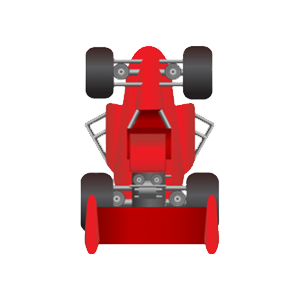
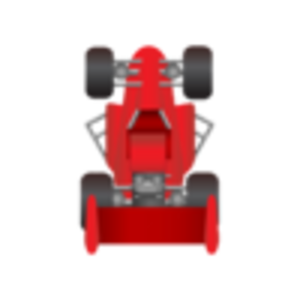
Paso 5

Changed region(s): [[0.24, 0.12, 0.75, 0.87], [0.42, 0.36, 0.57, 0.45]]

diff --git a/Practicas-ProgIII/src/Practica0/JLabelCoche.java b/Practicas-ProgIII/src/Practica0/JLabelCoche.java
@@ -1,0 +1,222 @@
+package Practica0;
+
+import java.awt.*;
+import java.awt.image.BufferedImage;
+import java.io.File;
+import java.io.IOException;
+import java.net.URL;
+import javax.imageio.ImageIO;
+import javax.swing.*;
+
+public class JLabelCoche extends JLabel{
+	public static void main(String[] args) {
+		JFrame f = new JFrame( "Prueba JLabelCoche" );
+		f.setDefaultCloseOperation( JFrame.DISPOSE_ON_CLOSE );
+		// f.setLocation( 2000, 100 );   // Si se quiere cambiar la posición
+		f.getContentPane().setLayout( null );
+		JLabel label = new JLabel( new ImageIcon( "src/Practica0/coche.png" ) );
+		label.setBounds( 0, 0, 150, 150 );
+		JLabelCoche labelGrafico = new JLabelCoche( "/Practica0/coche.png", 100, 100 );
+		labelGrafico.setLocation( 400, 100 );
+			// TODO probar este 300, 300 con diferentes tamaños. Si x<=0 ajusta el ancho y si es y<=0 ajusta el alto
+		f.setSize( 600, 400 );
+		f.add( label );  // f.add es una simplificación de f.getContentPane().add  (es lo mismo)
+		f.add( labelGrafico );
+		f.setVisible( true );
+		try { Thread.sleep( 5000 ); } catch (Exception e) {}  // Espera 5 segundos
+		for (int rot=0; rot<=200; rot++ ) {
+			labelGrafico.setRotacion( rot*Math.PI/100 );
+			try { Thread.sleep( 20 ); } catch (Exception e) {}  // Espera dos décimas entre rotación y rotación
+		}
+		for (int op=-100; op<=100; op++ ) {
+			labelGrafico.setOpacidad( Math.abs(op*0.01f) );
+			try { Thread.sleep( 20 ); } catch (Exception e) {}  // Espera dos décimas entre cambio de transparencias
+		}
+		for (int op=0; op<99; op++ ) {
+			labelGrafico.setSize( labelGrafico.getAnchuraObjeto()-1, labelGrafico.getAlturaObjeto()-1 );
+			try { Thread.sleep( 20 ); } catch (Exception e) {}  // Espera dos décimas entre cambio de tamaño
+		}
+		for (int op=0; op<200; op++ ) {
+			labelGrafico.setSize( labelGrafico.getAnchuraObjeto()+1, labelGrafico.getAlturaObjeto()+1 );
+			try { Thread.sleep( 20 ); } catch (Exception e) {}  // Espera dos décimas entre cambio de tamaño
+		}
+		for (int op=0; op<100; op++ ) {
+			labelGrafico.setSize( labelGrafico.getAnchuraObjeto()-1, labelGrafico.getAlturaObjeto() );
+			try { Thread.sleep( 20 ); } catch (Exception e) {}  // Espera dos décimas entre aplastamiento de tamaño
+		}
+		for (int rot=0; rot<=200; rot++ ) {
+			labelGrafico.setRotacion( rot*Math.PI/100 );
+			try { Thread.sleep( 20 ); } catch (Exception e) {}  // Espera dos décimas entre rotación y rotación
+		}
+	}
+
+	// No static
+	
+	// la posición X,Y se hereda de JLabel
+	protected int anchuraObjeto;   // Anchura definida del objeto en pixels
+	protected int alturaObjeto;    // Altura definida del objeto en pixels
+	protected double radsRotacion; // Rotación del objeto en radianes
+	protected float opacidad;      // Opacidad del objeto (0.0f a 0.1f)
+	protected double zoom = 1.0;   // 1.0 = 100% zoom  (0.1 = 10%, 10.0 = 1000% ...)
+	protected BufferedImage imagenObjeto;  // imagen para el escalado
+	private static final long serialVersionUID = 1L;  // para serializar
+
+	/** Crea un nuevo JLabel gráfico.<br>
+	 * Si no existe el fichero de imagen, se crea un rectángulo blanco con borde rojo
+	 * @param nombreImagenObjeto	Nombre fichero donde está la imagen del objeto. Puede ser también un nombre de recurso desde el paquete de esta clase.
+	 * @param anchura	Anchura del gráfico en píxels (si es <= 0 ocupa todo el ancho de la imagen original)
+	 * @param altura	Altura del gráfico en píxels (si es <= 0 ocupa todo el alto de la imagen original)
+	 */
+	public JLabelCoche( String nombreImagenObjeto, int anchura, int altura ) {
+		this( nombreImagenObjeto, anchura, altura, 0.0, 1.0f );
+	}
+	
+	/** Crea un nuevo JLabel gráfico.<br>
+	 * Si no existe el fichero de imagen, se crea un rectángulo blanco con borde rojo
+	 * @param nombreImagenObjeto	Nombre fichero donde está la imagen del objeto. Puede ser también un nombre de recurso desde el paquete de esta clase.
+	 * @param anchura	Anchura del gráfico en píxels (si es <= 0 ocupa todo el ancho de la imagen original)
+	 * @param altura	Altura del gráfico en píxels (si es <= 0 ocupa todo el alto de la imagen original)
+	 * @param rotacion	Rotación del objeto (en radianes)
+	 * @param opacidad	Opacidad del objeto (0.0f transparente a 1.0f opaco)
+	 */
+	public JLabelCoche( String nombreImagenObjeto, int anchura, int altura, double rotacion, float opacidad ) {
+		setName( nombreImagenObjeto );
+		setImagen( nombreImagenObjeto ); // Cargamos el icono
+		setSize( anchura, altura );
+		setRotacion(rotacion);
+		setOpacidad(opacidad);
+	}
+	
+	@Override
+	public void setSize(int anchura, int altura) {
+        if (anchura <= 0 && imagenObjeto!=null) anchura = imagenObjeto.getWidth();
+        if (altura <= 0 && imagenObjeto!=null) altura = imagenObjeto.getHeight();
+		anchuraObjeto = anchura;
+		alturaObjeto = altura;
+    	super.setSize( anchura, altura );
+    	setPreferredSize( new Dimension( anchura, altura ));
+	}
+	
+	/** Cambia la imagen del objeto
+	 * @param nomImagenObjeto	Nombre fichero donde está la imagen del objeto. Puede ser también un nombre de recurso desde el paquete de esta clase.
+	 */
+	public void setImagen( String nomImagenObjeto ) {
+		File f = new File(nomImagenObjeto);
+        URL imgURL = null;
+        try {
+        	imgURL = f.toURI().toURL();
+    		if (!f.exists()) {
+    			imgURL = JLabelCoche.class.getResource( nomImagenObjeto ).toURI().toURL();
+    		}
+        } catch (Exception e) {}  // Cualquier error de carga, la imagen se queda nula
+        if (imgURL == null) {
+        	imagenObjeto = null;
+        } else {
+        	try {  // guarda la imagen para dibujarla de forma escalada después
+    			imagenObjeto = ImageIO.read(imgURL);
+    		} catch (IOException e) {}  // Error al leer la imagen
+        }
+        if (imagenObjeto==null) {
+			setOpaque( true );
+			setBackground( Color.red );
+			setForeground( Color.blue );
+	    	setBorder( BorderFactory.createLineBorder( Color.blue ));
+	    	setText( nomImagenObjeto );
+        }
+        repaint();
+	}
+	
+	/** Devuelve la anchura del rectángulo gráfico del objeto
+	 * @return	Anchura
+	 */
+	public int getAnchuraObjeto() {
+		return anchuraObjeto;
+	}
+	
+	/** Devuelve la altura del rectángulo gráfico del objeto
+	 * @return	Altura
+	 */
+	public int getAlturaObjeto() {
+		return alturaObjeto;
+	}
+	
+	/** Devuelve la rotación del objeto
+	 * @return	Rotación actual del objeto en radianes
+	 */
+	public double getRotacion() {
+		return radsRotacion;
+	}
+
+	/** Modifica la rotación del objeto
+	 * @param rotacion	Nueva rotación del objeto (en radianes)
+	 */
+	public void setRotacion( double rotacion ) {
+		radsRotacion = rotacion;
+		repaint(); // Si no repintamos aquí Swing no sabe que ha cambiado el dibujo
+	}
+	
+	/** Devuelve la opacidad del objeto
+	 * @return	Opacidad del objeto (0.0f transparente a 1.0f opaco)
+	 */
+	public float getOpacidad() {
+		return opacidad;
+	}
+
+	/** Modifica la opacidad del objeto
+	 * @param opacidad	Opacidad del objeto (0.0f transparente a 1.0f opaco)
+	 */
+	public void setOpacidad(float opacidad) {
+		if (opacidad<0.0f || opacidad>1.0f) return; // No se cambia si el valor es inválido
+		this.opacidad = opacidad;
+		repaint(); // Si no repintamos aquí Swing no sabe que ha cambiado el dibujo
+	}
+	
+	/** Cambia el zoom por el zoom indicado
+	 * @param zoom	Valor nuevo de zoom, positivo (0.1 = 10%, 1.0 = 100%, 2.0 = 200%...)
+	 */
+	public void setZoom( double zoom ) {
+		if (zoom>0.0) {
+			this.zoom = zoom;
+			repaint();
+		}
+	}
+	
+	/** Devuelve el zoom actual
+	 * @return	Zoom actual
+	 */
+	public double getZoom() {
+		return zoom;
+	}
+	
+	/** Actualiza la posición del objeto
+	 * @param x	Coordenada x (doble) - se redondea al píxel más cercano
+	 * @param y	Coordenada y (doble) - se redondea al píxel más cercano
+	 */
+	public void setLocation( double x, double y ) {
+		setLocation( (int)Math.round(x), (int)Math.round(y) );
+	}
+	
+	// Dibuja este componente de una forma no habitual
+	@Override
+	protected void paintComponent(Graphics g) {
+		super.paintComponent(g);
+		if (imagenObjeto!=null) {
+			Graphics2D g2 = (Graphics2D) g;  // El Graphics realmente es Graphics2D
+			g2.setRenderingHint(RenderingHints.KEY_INTERPOLATION,RenderingHints.VALUE_INTERPOLATION_BILINEAR);
+			g2.setRenderingHint(RenderingHints.KEY_RENDERING,RenderingHints.VALUE_RENDER_QUALITY);
+			g2.setRenderingHint(RenderingHints.KEY_ANTIALIASING,RenderingHints.VALUE_ANTIALIAS_ON);	
+			// Zoom
+	        int anchoDibujado = (int)Math.round(anchuraObjeto*zoom);  // Calcular las coordenadas de dibujado con el zoom, siempre centrado en el label
+	        int altoDibujado = (int)Math.round(alturaObjeto*zoom);
+	        int difAncho = (getWidth() - anchoDibujado) / 2;  // Offset x para centrar
+	        int difAlto = (getHeight() - altoDibujado) / 2;     // Offset y para centrar
+			// Rotación
+			g2.rotate( radsRotacion, getWidth()/2, getHeight()/2 );  // Incorporar al gráfico la rotación definida
+			// Transparencia
+			g2.setComposite(AlphaComposite.getInstance( AlphaComposite.SRC_OVER, opacidad ) ); // Incorporar la transparencia definida
+	        g2.drawImage(imagenObjeto, difAncho, difAlto, anchoDibujado, altoDibujado, null);  // Dibujar la imagen con el tamaño calculado tras aplicar el zoom
+	        // Deshacer rotación
+	        g2.rotate( Math.PI*2-radsRotacion, getWidth()/2, getHeight()/2 );
+		}
+	}
+}

diff --git a/Practicas-ProgIII/src/Practica0/VentanaJuego.java b/Practicas-ProgIII/src/Practica0/VentanaJuego.java
@@ -14,6 +14,7 @@ public class VentanaJuego extends JFrame{
 		VentanaJuego ventana = new VentanaJuego("PRÁCTICA 0");
 		ventana.setVisible( true );
 		
+		// Datos del Coche
 		Coche coche = new Coche( "Lewis Hamilton", 150.0, 100.0, 10.0, 0.0 );
 		System.out.println( coche.toString() );
 	}
@@ -31,21 +32,27 @@ public class VentanaJuego extends JFrame{
 	public VentanaJuego(String titulo) {
 		
 		super(titulo);
-		
 		this.setDefaultCloseOperation( JFrame.DISPOSE_ON_CLOSE );  
 		this.setSize( 900, 300 );  
 		this.setLocationRelativeTo( null ); // CENTRAR LA VENTANA
 		
+		
+		// PANEL CENTRAL
+		
+		JLabelCoche jlabel = new JLabelCoche( "src/Practica0/coche.png", 100, 100 );
+		panelCentral.add( jlabel );
+		
+		this.add( panelCentral, BorderLayout.CENTER );
+		
+		// PANEL INFERIOR
 		
 		panelInferior.add(botonAcelera);
 		panelInferior.add(botonFrena);
 		panelInferior.add(botonGiraI);
 		panelInferior.add(botonGiraD);
 		
-		
 		panelInferior.setLayout(new GridLayout(1,4));
 		
-		this.add( panelCentral, BorderLayout.CENTER );
 		this.add( panelInferior, BorderLayout.SOUTH );
 		
 		
